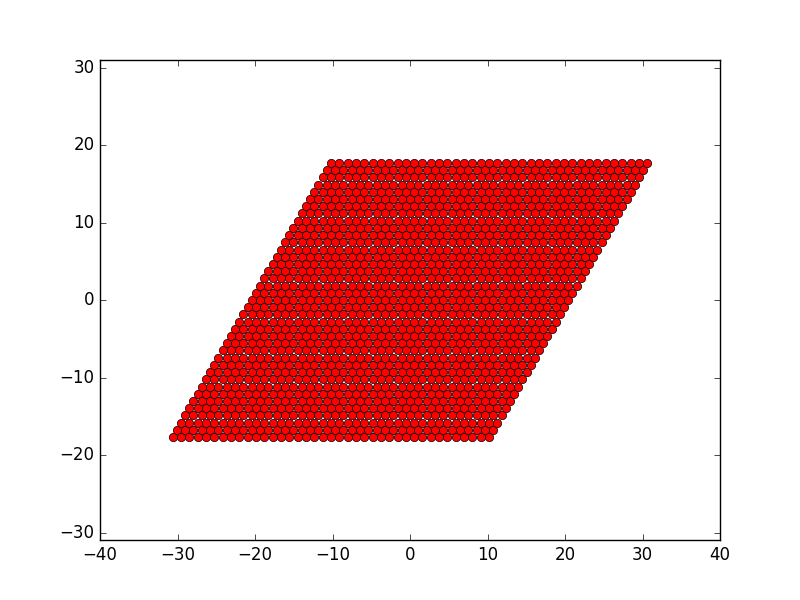
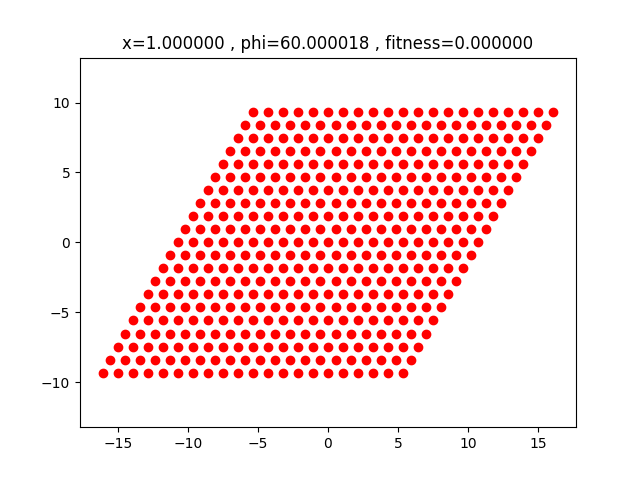
Output of Pictures for every generation

diff --git a/Genetic_Lattice/main.cpp b/Genetic_Lattice/main.cpp
@@ -23,7 +23,7 @@ double const lambda=1;
 int n=100;
 
 
-double rcut=lambda*20;
+double rcut=lambda*10;
 //int kmax=15;
 //int lmax=15;
 
@@ -612,7 +612,7 @@ class Climber{
 
 namespace plt=matplotlibcpp;
 
-void plotCell(double x, double phi,string plotname="crystall.png"){
+void plotCell(double x, double phi,string plotname="crystall.png",double fitness=0){
     double a=1./sqrt(x*sin(phi));
     vector<double> x1={a,0};
     vector<double> x2={a*x*cos(phi),a*x*sin(phi)};
@@ -635,6 +635,8 @@ void plotCell(double x, double phi,string plotname="crystall.png"){
     }
     plt::clf();
     bool bo=plt::plot(p1,p2,"ro");
+    string title="x="+to_string(x)+" , phi="+to_string(phi/PI*180)+" , fitness="+to_string(fitness);
+    plt::title(title);
     //cout<<bo;
     //bo=plt::plot(p1,p2);
     //cout<<bo;
@@ -656,7 +658,7 @@ int main(){
 
   
     
-    for(int j=0;j<100;j++){
+    for(int j=0;j<1;j++){
         for(int i=0;i<100;i++){
             //high_resolution_clock::time_point t_start_parallel = high_resolution_clock::now();
             //cout<<endl<<"Generation "<<i<<endl;
@@ -664,7 +666,12 @@ int main(){
             //high_resolution_clock::time_point t_end_parallel = high_resolution_clock::now();
             //duration<double> time_parallel = t_end_parallel - t_start_parallel;
             //cout << "Execution time: " << time_parallel.count()<<endl;
-            
+            Individual best=gen.getBest();
+            string plotname="Generation";
+            plotname+=to_string(i);
+            plotname+=".png";
+            best.calcFitness();
+            plotCell(best.getX(),best.getPhi(),plotname,best.getFitness());    
         }
         cout<<endl<<endl<<"Winner of the Evolution Contest:"<<endl;
         Individual best=gen.getLastBest();
